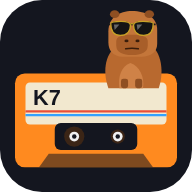
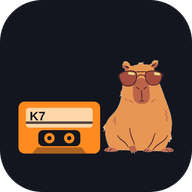
Add files via upload

diff --git a/index.html b/index.html
@@ -309,7 +309,7 @@ main{max-width:1200px;margin:0 auto;padding:14px 16px 110px}
 #lib[data-tile="s"] .grid{grid-template-columns:repeat(auto-fill,minmax(112px,1fr))}
 #lib[data-tile="l"] .grid{grid-template-columns:repeat(auto-fill,minmax(210px,1fr))}
 body.flat .case{transform:none!important}body.flat .edge{display:none}body.flat .case{width:100%;margin-left:0}
-.capy-stk{position:absolute;right:16px;bottom:12px;width:34px;height:34px;transform:rotate(9deg);filter:drop-shadow(0 1px 1px #0006);pointer-events:none}
+.capy-stk{position:absolute;right:16px;bottom:12px;width:34px;height:34px;border-radius:50%;background:#fbf8f0;display:grid;place-items:end center;overflow:hidden;transform:rotate(9deg);filter:drop-shadow(0 1px 1px #0006);pointer-events:none}.capy-stk img{height:30px;width:auto;display:block}
 .skins{display:grid;grid-template-columns:repeat(auto-fill,minmax(96px,1fr));gap:8px}
 .skin{border:2px solid var(--line);border-radius:12px;padding:6px;background:var(--card);text-align:center;font-size:12px}
 .skin.on{border-color:var(--accent)}
@@ -408,7 +408,7 @@ body.flat .case{transform:none!important}body.flat .edge{display:none}body.flat 
       <button class="mk" id="mSet">⚙<small>RÉGLAGES</small></button>
     </div>
     <div class="grill"></div>
-    <svg class="capy-stk" viewBox="0 0 120 120" aria-hidden="true"><circle cx="60" cy="62" r="58" fill="#fbf8f0"/><g transform="translate(6 6) scale(.9)"><path d="M30 112 C22 90 26 66 44 56 L78 54 C96 60 102 88 94 112 Z" fill="#b8692f"/> <path d="M44 112 C42 98 46 84 58 80 C70 84 76 98 74 112 Z" fill="#cf8247"/> <rect x="46" y="100" width="9" height="12" rx="3" fill="#8f4f22"/> <rect x="64" y="100" width="9" height="12" rx="3" fill="#8f4f22"/> <path d="M30 40 C30 22 44 14 60 14 C78 14 92 22 92 38 L92 56 C92 66 84 72 72 72 L48 72 C36 72 30 64 30 54 Z" fill="#c4763a"/> <ellipse cx="38" cy="18" rx="6" ry="5" fill="#8f4f22"/> <ellipse cx="82" cy="18" rx="6" ry="5" fill="#8f4f22"/> <path d="M40 52 C40 46 48 44 60 44 C72 44 80 46 80 52 L80 58 C80 66 72 70 60 70 C48 70 40 66 40 58 Z" fill="#a85e29"/> <ellipse cx="53" cy="52" rx="2.6" ry="1.8" fill="#3a1d0b"/> <ellipse cx="67" cy="52" rx="2.6" ry="1.8" fill="#3a1d0b"/> <path d="M52 62 Q60 60.5 68 62" stroke="#3a1d0b" stroke-width="2" fill="none" stroke-linecap="round"/> <path d="M30 31 L90 31" stroke="#1b1b1b" stroke-width="2.4"/> <path d="M33 30 C33 28 37 27 46 27 C55 27 58 29 58 32 C58 40 53 45 45 45 C37 45 33 39 33 30 Z" fill="#141414" stroke="#c9a227" stroke-width="1.6"/> <path d="M62 32 C62 29 65 27 74 27 C83 27 87 28 87 30 C87 39 83 45 75 45 C67 45 62 40 62 32 Z" fill="#141414" stroke="#c9a227" stroke-width="1.6"/> <path d="M58 31 Q60 29 62 31" stroke="#c9a227" stroke-width="1.6" fill="none"/> <path d="M37 31 L44 31 L38 38 Z" fill="#ffffff" opacity=".35"/> <path d="M66 31 L73 31 L67 38 Z" fill="#ffffff" opacity=".35"/></g></svg>
+    <span class="capy-stk" aria-hidden="true"><img src="capy-logo.png" alt=""></span>
   </div>
 </section>
 
@@ -1822,7 +1822,7 @@ async function openSettings(){
    ${tg("stNag", "Rappel de sauvegarde tous les 14 jours", s.nag !== false)}
    ${storage}
    <div class="stitle">ℹ À propos</div>
-   <div style="display:flex;gap:12px;align-items:center"><svg viewBox="0 0 120 120" width="56" height="56" aria-hidden="true">${CAPY}</svg>
+   <div style="display:flex;gap:12px;align-items:center"><img src="capy-logo.png" alt="CapyCool" width="43" height="56">
    <p class="note" style="margin:0">K7 Audiobook — un label <b>Kawaii App</b>. Rien n'est envoyé nulle part à part le titre et l'auteur des livres pour chercher pochettes et résumés.<br>Maintenir ◀◀/▶▶ = défilement rapide · double-tap sur VITESSE = ×1 · appui long sur un boîtier = fiche.</p></div>`);
   const redrawDeck = () => { applyLook(); render(); if (player.book) { drawDeckStatic(); updateUI(); } };
   const bindSeg = (id, key, num = true) => $("#" + id).onclick = e => { const btn = e.target.closest("[data-v]"); if (!btn) return; const v = btn.dataset.v;
@@ -1845,7 +1845,7 @@ async function openSettings(){
 }
 
 /* ---------- apparence & options ---------- */
-const CAPY = `<path d="M30 112 C22 90 26 66 44 56 L78 54 C96 60 102 88 94 112 Z" fill="#b8692f"/> <path d="M44 112 C42 98 46 84 58 80 C70 84 76 98 74 112 Z" fill="#cf8247"/> <rect x="46" y="100" width="9" height="12" rx="3" fill="#8f4f22"/> <rect x="64" y="100" width="9" height="12" rx="3" fill="#8f4f22"/> <path d="M30 40 C30 22 44 14 60 14 C78 14 92 22 92 38 L92 56 C92 66 84 72 72 72 L48 72 C36 72 30 64 30 54 Z" fill="#c4763a"/> <ellipse cx="38" cy="18" rx="6" ry="5" fill="#8f4f22"/> <ellipse cx="82" cy="18" rx="6" ry="5" fill="#8f4f22"/> <path d="M40 52 C40 46 48 44 60 44 C72 44 80 46 80 52 L80 58 C80 66 72 70 60 70 C48 70 40 66 40 58 Z" fill="#a85e29"/> <ellipse cx="53" cy="52" rx="2.6" ry="1.8" fill="#3a1d0b"/> <ellipse cx="67" cy="52" rx="2.6" ry="1.8" fill="#3a1d0b"/> <path d="M52 62 Q60 60.5 68 62" stroke="#3a1d0b" stroke-width="2" fill="none" stroke-linecap="round"/> <path d="M30 31 L90 31" stroke="#1b1b1b" stroke-width="2.4"/> <path d="M33 30 C33 28 37 27 46 27 C55 27 58 29 58 32 C58 40 53 45 45 45 C37 45 33 39 33 30 Z" fill="#141414" stroke="#c9a227" stroke-width="1.6"/> <path d="M62 32 C62 29 65 27 74 27 C83 27 87 28 87 30 C87 39 83 45 75 45 C67 45 62 40 62 32 Z" fill="#141414" stroke="#c9a227" stroke-width="1.6"/> <path d="M58 31 Q60 29 62 31" stroke="#c9a227" stroke-width="1.6" fill="none"/> <path d="M37 31 L44 31 L38 38 Z" fill="#ffffff" opacity=".35"/> <path d="M66 31 L73 31 L67 38 Z" fill="#ffffff" opacity=".35"/>`;
+
 const SKIN_LIST = [
   ["alu88", "Alu 88", "linear-gradient(170deg,#d6dce6,#8590a3)", "K7·88", "AUTO-STOP · <em>TYPE II</em> · STÉRÉO"],
   ["bleu79", "Bleu 79", "linear-gradient(180deg,#5d82b8 0 50%,#c9ced6 50%)", "K7-L2", "STEREO CASSETTE PLAYER · <em>HOT LINE</em>"],

diff --git a/sw.js b/sw.js
@@ -1,5 +1,5 @@
 // K7 — service worker : garde l'appli dispo hors ligne (les livres sont dans IndexedDB, pas ici)
-const V = "k7-v13";
+const V = "k7-v14";
 const COVERS = "k7-covers"; // pochettes venues du web : gardées d'une version à l'autre
 const COVER_HOSTS = /(^|\.)(mzstatic\.com|books\.google\.com|googleusercontent\.com|covers\.openlibrary\.org|archive\.org|upload\.wikimedia\.org)$/;
 const SHELL = ["./", "./index.html", "./manifest.webmanifest", "./icon.svg", "./icon-192.png", "./icon-512.png", "./capy-logo.png", ...["archivo-latin-400","archivo-latin-500","archivo-latin-600","archivo-latin-700","archivo-latin-800","vt323-latin-400","permanent-marker-latin-400"].map(f => `./fonts/${f}-normal.woff2`)];
